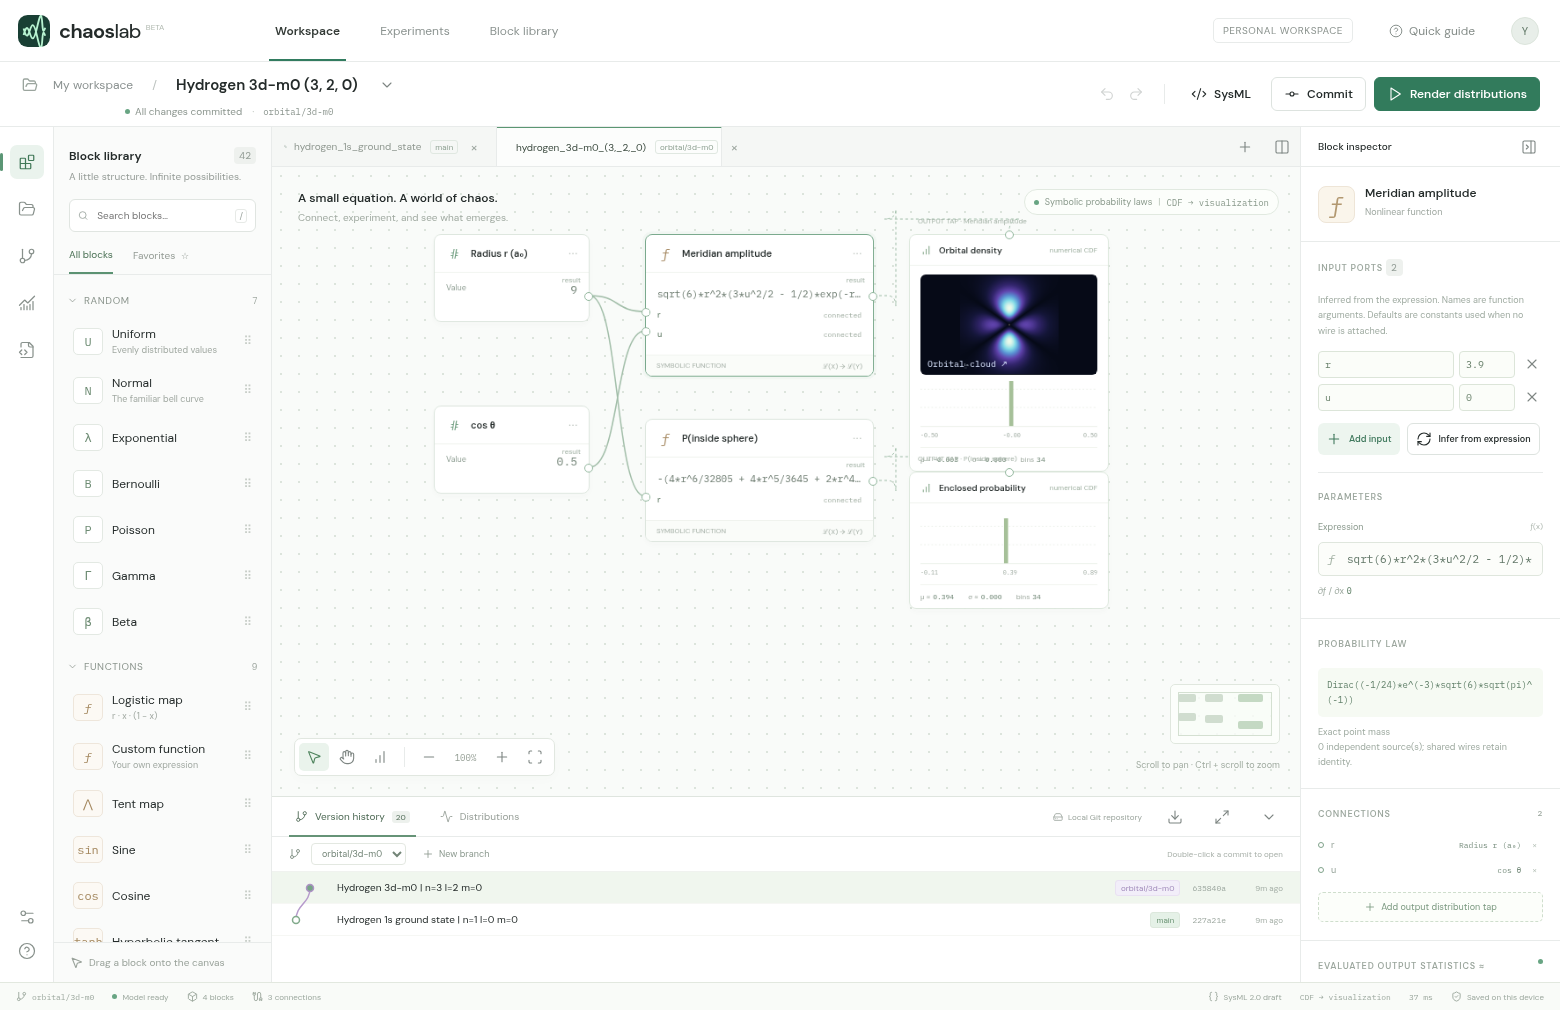
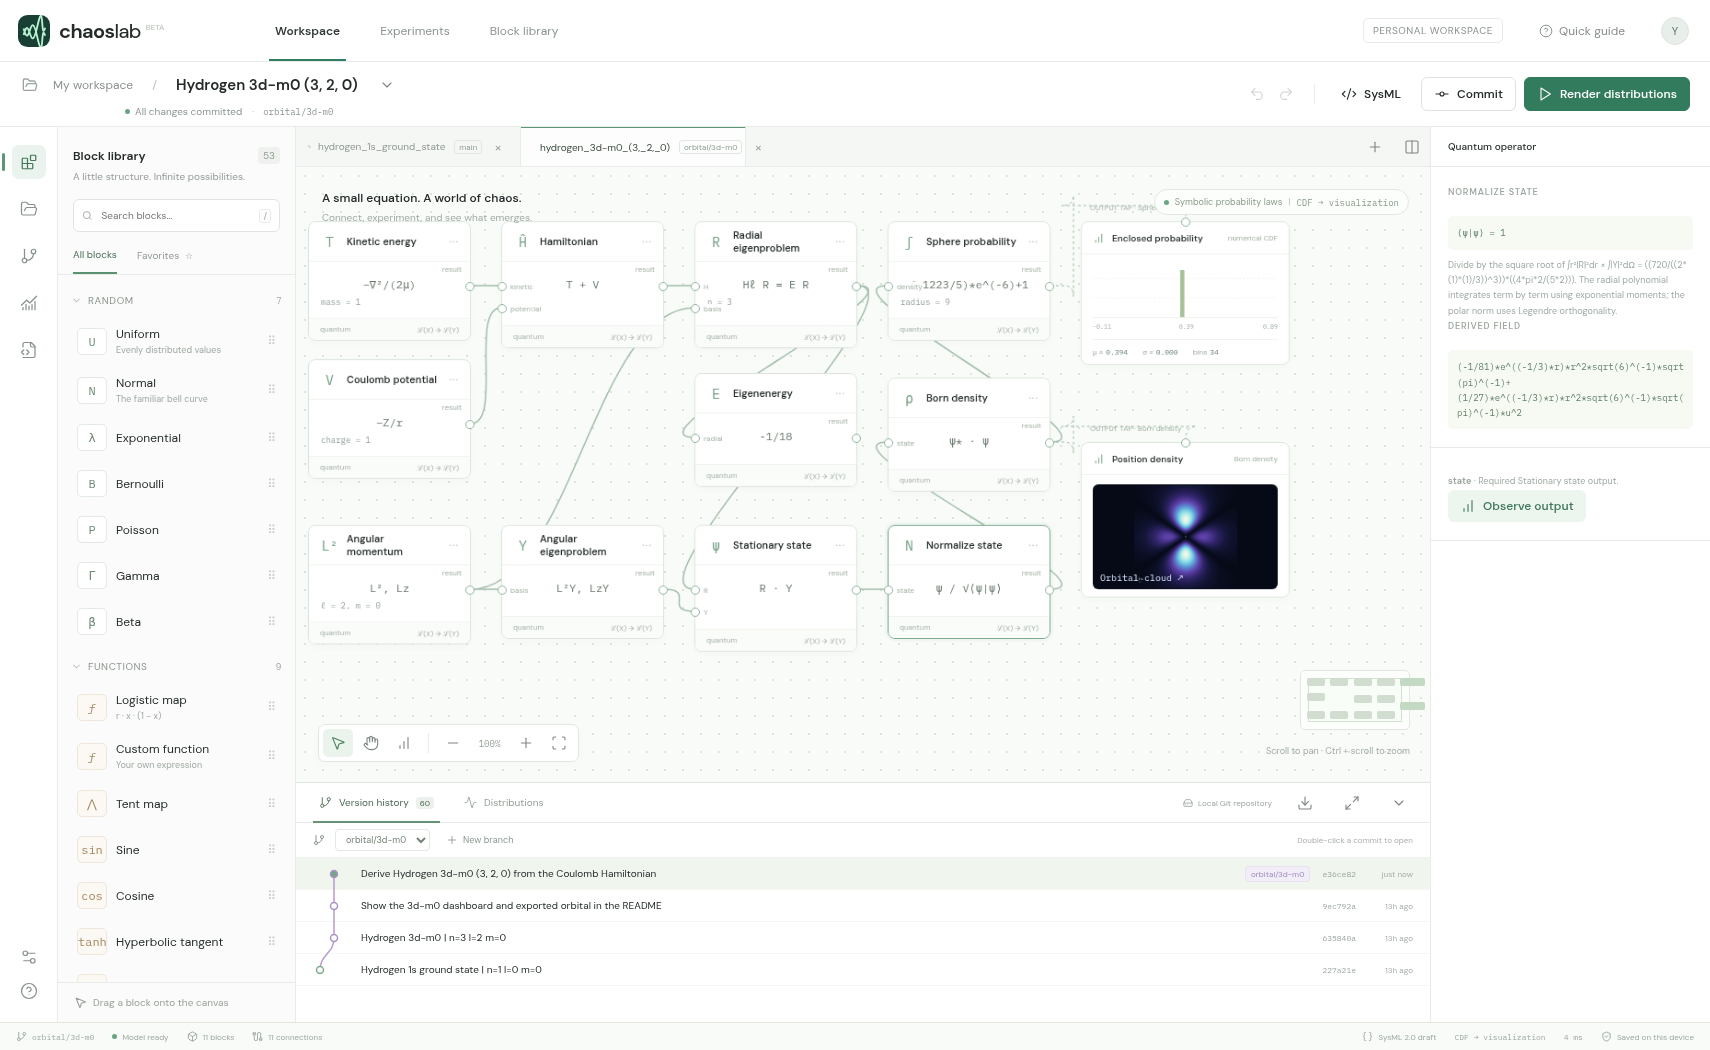
Show the derived state and operator graph for orbital/3d-m0

diff --git a/README.md b/README.md
@@ -4,6 +4,8 @@ Open **Version history** in Chaos Lab to explore the 20 hydrogen designs in this
 
 ## Hydrogen 3d (n = 3, ℓ = 2, m = 0)
 
+The connected Hamiltonian and eigenstate solvers give $E=-1/18$ Hartree for this state.
+
 ![Chaos Lab dashboard with the 3d model, m = 0, open in version history](dashboard.png)
 
 Radial nodes: 0. Polar nodes: 2. Plot half-width: 18 Bohr radii.
@@ -22,7 +24,7 @@ cd hydrogen_wavefunction
 python studio.py
 ```
 
-On Windows you can use `py studio.py`. On Linux you can use `python3 studio.py`. The first launch downloads the pinned Chaos Lab browser build. Double-click a commit to open it in a tab. Open another and use **Split view** to compare them. **Orbital cloud ↗** opens the spatial plots. The launcher reads the Git objects from your clone, including origin branches. Run `git fetch origin` and restart the launcher to load new remote branches.
+On Windows you can use `py studio.py`. On Linux you can use `python3 studio.py`. The first launch downloads the pinned Chaos Lab browser build. Double-click a commit to open it in a tab. Open another and use **Split view** to compare them. **Orbital cloud ↗** opens the spatial plots. The launcher reads the Git objects from your clone, including origin branches. For an existing clone, update the checked-out branch with `git pull --ff-only`, fetch the other branches with `git fetch origin`, and restart the launcher. Double-click the latest commit for the design you want to explore.
 
 To compare states with the same radial law, open `orbital/2p-m0` and `orbital/2p-m1`. At the same radius their enclosed-probability probes agree. The first slice is dark on the equatorial plane, while the second is dark along the polar axis.
 
@@ -32,7 +34,17 @@ To compare states with the same radial law, open `orbital/2p-m0` and `orbital/2p
 
 Branch names encode `(n, ℓ, m)`. For example, `orbital/3d-m1` is `(3,2,1)`. Each snapshot includes the editable graph, its compiled symbolic representation, and its SysML text. Each excited-state branch also contains a reference cross-section.
 
-Coordinates are in Bohr radii. These are normalized fixed-proton, nonrelativistic spatial eigenstates in the complex spherical-harmonic basis. For a fixed m the azimuthal phase is exp(i m φ), so probability density is axially symmetric. The graph evaluates the real meridian amplitude at φ = 0 using radius r and u = cos θ. Its square is probability per unit volume. The sphere probe integrates the radial Born law. The field tap sweeps the same amplitude expression for the x–z slice and its projected detections. Detections are drawn for display from a numerical grid of the final density including the r² volume factor. Brightness and plotting windows are scaled per orbital.
+## How the graph derives this orbital
+
+1. **Kinetic energy** and **Coulomb potential** supply the relative-coordinate operators in atomic units. Their wires feed **Hamiltonian**, which constructs $H=-\nabla^2/(2\mu)-Z/r$. The default is a fixed proton, $Z=\mu=1$.
+2. **Angular momentum** selects the joint eigenvalues of $L^2$ and $L_z$. **Radial eigenproblem** uses that angular eigenvalue in the centrifugal term. Regularity at the origin, decay at infinity, and radial-series termination give the polynomial and energy. **Angular eigenproblem** constructs the polar polynomial by Rodrigues differentiation and includes the phase $e^{im\phi}$.
+3. **Stationary state** multiplies the separated basis functions. **Normalize state** computes their norm with the spherical volume measure. **Born density** takes the squared modulus of the normalized state. **Sphere probability** integrates that density to the probe radius.
+4. Select a block to inspect its equation and derivation. Change **Nuclear charge** from 1 to 2. The energy becomes four times more negative and the orbital contracts by a factor of two. The plot rescales with the orbital, so use its Bohr-radius scale bar to see the change.
+
+The central slice evaluates the final density in the x–z plane. Projected detections sample the final density on a finite radial and angular grid with the spherical volume factor. Coordinates use Bohr radii and energy uses Hartree.
+
+The branch stores the operator graph in `model.json`, its derived fields and scalar laws in `model.symbolic.json`, and the block connections in `model.sysml`. With SymPy installed, run `python tools/verify_state.py` in a checkout of this branch to check the eigenvalue equations, normalization, radial reference solution and sphere integral.
+
 
 | n | ℓ | m | Design branch |
 |---|---|---|---|
